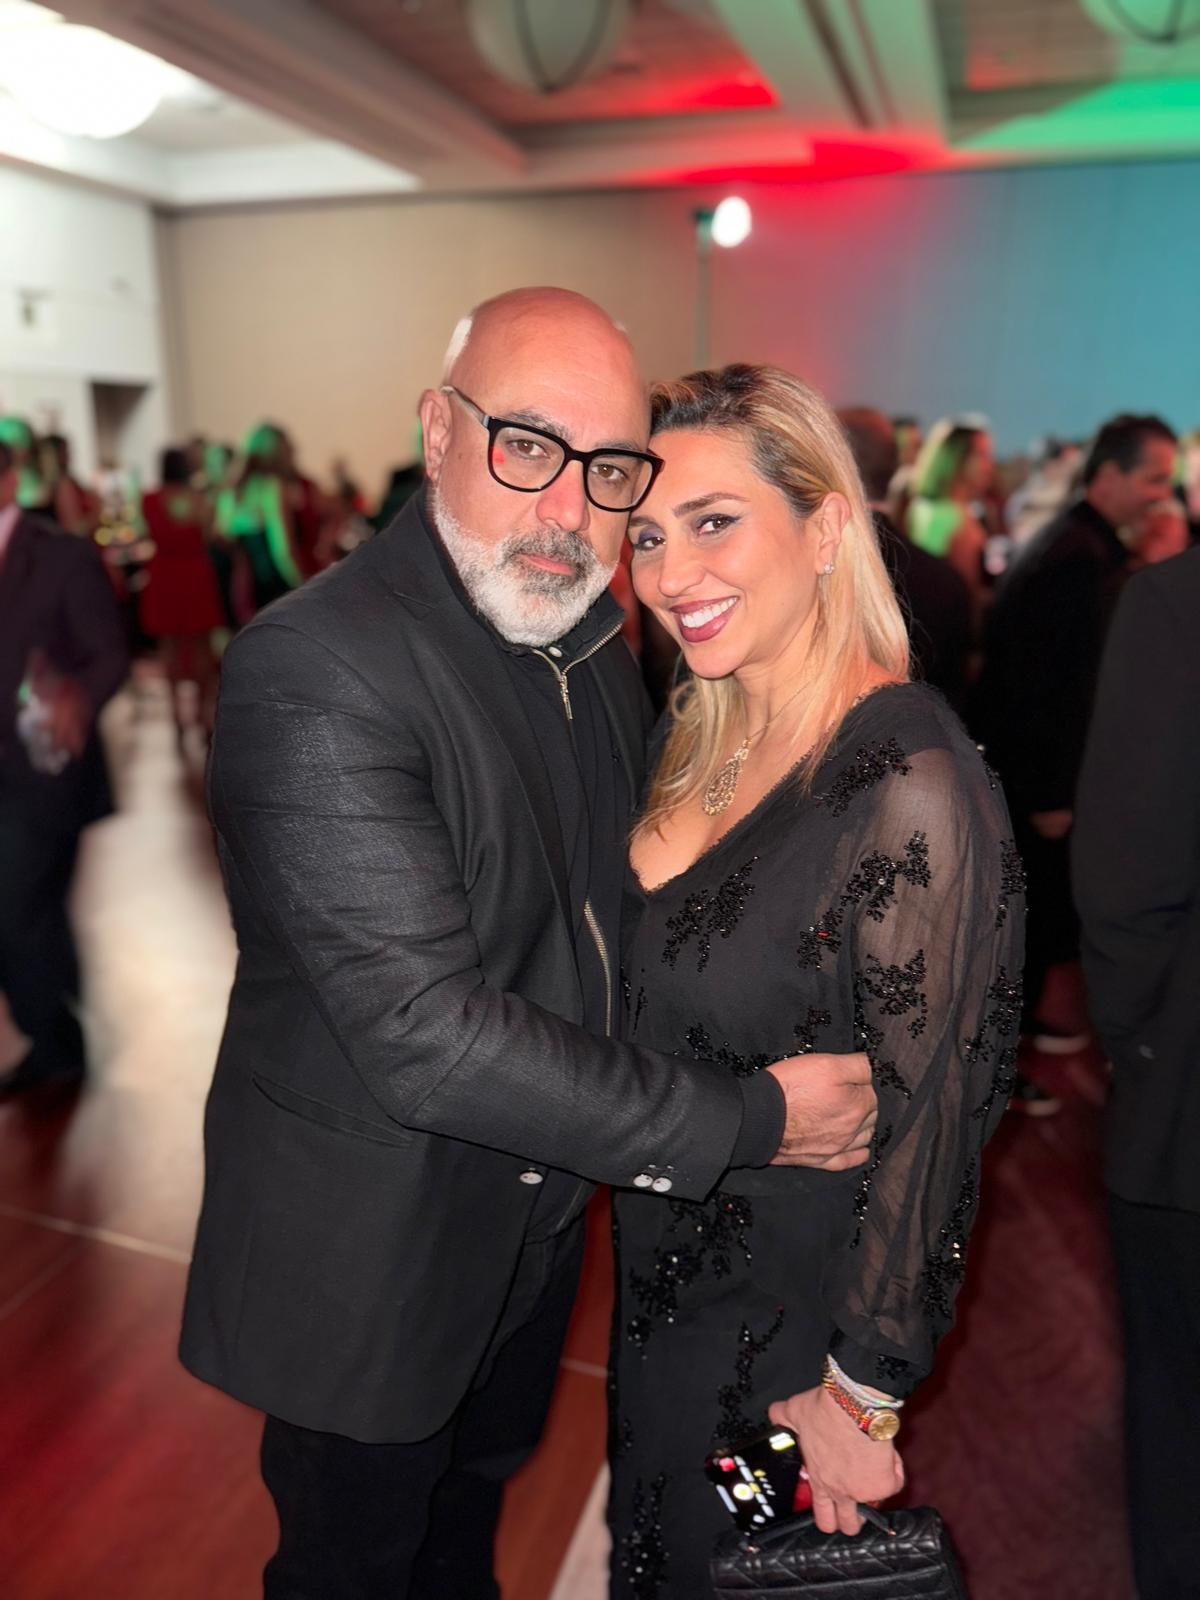
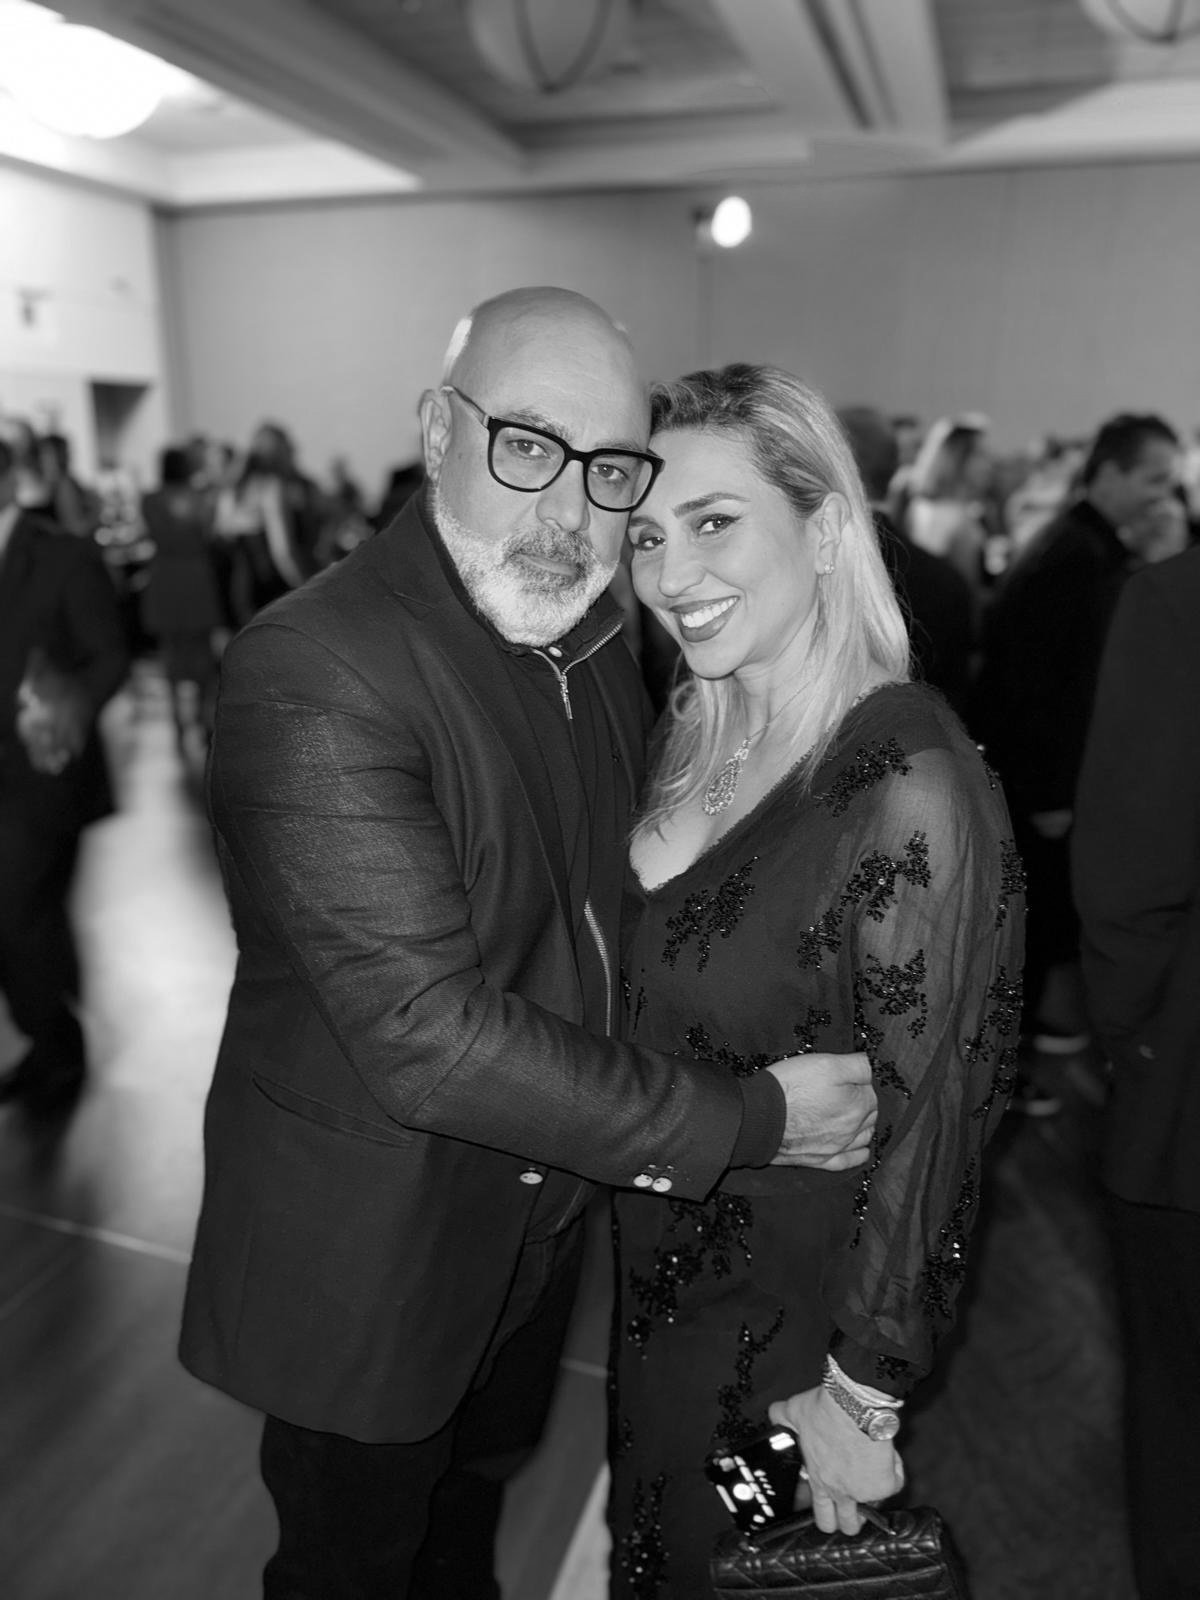
Add scroll-reveal animation, bolder hero, and hover polish; swap in correct hero photo
Per Parham's design direction (referencing emddigital.com.au for layout/
animation/creativity, prioritizing GEO/speed over heavy effects): adds a
lightweight IntersectionObserver-based Reveal component for scroll-triggered
fades (content stays in server-rendered HTML regardless — a <noscript> rule
forces full visibility if JS is unavailable), applies it across Home page
sections, strengthens hover micro-interactions on buttons/cards/links, and
pushes the hero headline bolder. Swaps in the correct high-res, direct-gaze
black-and-white glasses photo for the Home hero and About page (replacing
the wrong 3/4-profile shot), and fixes the photo/book-cover top-alignment
in the hero.

diff --git a/src/app/page.tsx b/src/app/page.tsx
@@ -6,6 +6,7 @@ import { authorBios, writingJourney } from "@/lib/data/author";
 import { books, getBookBySlug } from "@/lib/data/books";
 import { pressFeatures } from "@/lib/data/media";
 import BookCard from "@/components/BookCard";
+import Reveal from "@/components/Reveal";
 
 export const metadata: Metadata = {
   title: `${siteConfig.name} — ${siteConfig.tagline}`,
@@ -20,12 +21,12 @@ export default function HomePage() {
   return (
     <>
       {/* Hero — photo + featured book, side by side */}
-      <section className="bg-invert-bg text-invert-fg">
+      <section className="overflow-hidden bg-invert-bg text-invert-fg">
         <div className="mx-auto max-w-6xl px-4 py-16 sm:px-6 md:py-20">
           <p className="text-xs font-semibold uppercase tracking-[0.3em] text-invert-fg/50">
             {siteConfig.tagline}
           </p>
-          <h1 className="mt-4 font-display text-6xl font-black uppercase leading-[0.92] tracking-tighter sm:text-7xl lg:text-8xl">
+          <h1 className="mt-4 font-display text-7xl font-black uppercase leading-[0.88] tracking-tighter sm:text-8xl lg:text-9xl">
             Parham
             <br />
             Shariat
@@ -33,7 +34,7 @@ export default function HomePage() {
 
           <div className="mt-12 grid items-start justify-center gap-10 sm:grid-cols-[auto_auto] sm:justify-start">
             <Image
-              src="/images/parham-headshot-glasses-2.png"
+              src="/images/parham-headshot-glasses-bw.png"
               alt="Portrait of Parham Shariat"
               width={500}
               height={750}
@@ -46,7 +47,7 @@ export default function HomePage() {
                 alt={`Book cover for ${featuredBook.title}: ${featuredBook.subtitle}`}
                 width={featuredBook.coverImage.width}
                 height={featuredBook.coverImage.height}
-                className="h-[28rem] w-auto object-contain object-top shadow-2xl"
+                className="h-[28rem] w-auto object-contain object-top shadow-2xl transition-transform duration-500 ease-out hover:-translate-y-2"
               />
               <div className="text-center sm:text-left">
                 <p className="font-display text-xl font-black uppercase tracking-tight">
@@ -60,7 +61,7 @@ export default function HomePage() {
                 href={featuredBook.buyUrl}
                 target="_blank"
                 rel="noopener noreferrer"
-                className="bg-invert-fg px-7 py-3.5 text-sm font-bold uppercase tracking-wide text-invert-bg transition-opacity hover:opacity-85"
+                className="bg-invert-fg px-7 py-3.5 text-sm font-bold uppercase tracking-wide text-invert-bg transition-all duration-200 hover:-translate-y-0.5 hover:opacity-85 active:translate-y-0"
               >
                 Buy the Book
               </a>
@@ -70,7 +71,7 @@ export default function HomePage() {
       </section>
 
       {/* Why I Write */}
-      <section className="mx-auto max-w-3xl px-4 py-20 sm:px-6">
+      <Reveal className="mx-auto max-w-3xl px-4 py-20 sm:px-6" as="section">
         <h2 className="font-display text-3xl font-black uppercase tracking-tight sm:text-4xl">
           {writingJourney.heading}
         </h2>
@@ -82,7 +83,7 @@ export default function HomePage() {
             <div key={story.bookSlug}>
               <Link
                 href={`/books/${story.bookSlug}`}
-                className="text-xs font-semibold uppercase tracking-widest text-foreground/50 hover:text-foreground"
+                className="text-xs font-semibold uppercase tracking-widest text-foreground/50 transition-colors hover:text-foreground"
               >
                 On {story.bookTitle}
               </Link>
@@ -92,24 +93,28 @@ export default function HomePage() {
             </div>
           ))}
         </div>
-      </section>
+      </Reveal>
 
       {/* Other titles */}
       <section className="border-t border-border bg-muted">
         <div className="mx-auto max-w-6xl px-4 py-20 sm:px-6">
-          <h2 className="font-display text-2xl font-black uppercase tracking-tight sm:text-3xl">
-            Other Titles by Parham
-          </h2>
+          <Reveal>
+            <h2 className="font-display text-2xl font-black uppercase tracking-tight sm:text-3xl">
+              Other Titles by Parham
+            </h2>
+          </Reveal>
           <div className="mt-8 grid gap-6 sm:grid-cols-2 lg:grid-cols-4">
-            {otherBooks.map((book) => (
-              <BookCard key={book.slug} book={book} />
+            {otherBooks.map((book, index) => (
+              <Reveal key={book.slug} delay={index * 80}>
+                <BookCard book={book} />
+              </Reveal>
             ))}
           </div>
         </div>
       </section>
 
       {/* Speaking, podcasts, interviews */}
-      <section className="mx-auto max-w-3xl px-4 py-20 text-center sm:px-6">
+      <Reveal className="mx-auto max-w-3xl px-4 py-20 text-center sm:px-6" as="section">
         <h2 className="font-display text-2xl font-black uppercase tracking-tight sm:text-3xl">
           Speaking, Podcasts &amp; Interviews
         </h2>
@@ -119,11 +124,11 @@ export default function HomePage() {
         </p>
         <Link
           href="/speaking"
-          className="mt-7 inline-block bg-foreground px-7 py-3.5 text-sm font-bold uppercase tracking-wide text-background transition-opacity hover:opacity-85"
+          className="mt-7 inline-block bg-foreground px-7 py-3.5 text-sm font-bold uppercase tracking-wide text-background transition-all duration-200 hover:-translate-y-0.5 hover:opacity-85 active:translate-y-0"
         >
           Get in Touch
         </Link>
-      </section>
+      </Reveal>
 
       {/* As seen in */}
       <section className="border-y border-border bg-muted">
@@ -136,7 +141,7 @@ export default function HomePage() {
               <Link
                 key={feature.outlet}
                 href="/media"
-                className="font-display text-xl font-black uppercase tracking-tight text-foreground/60 transition-colors hover:text-foreground sm:text-2xl"
+                className="font-display text-xl font-black uppercase tracking-tight text-foreground/60 transition-all duration-200 hover:-translate-y-0.5 hover:text-foreground sm:text-2xl"
               >
                 {feature.outlet}
               </Link>
@@ -146,7 +151,7 @@ export default function HomePage() {
       </section>
 
       {/* Bio teaser */}
-      <section className="mx-auto max-w-3xl px-4 py-20 text-center sm:px-6">
+      <Reveal className="mx-auto max-w-3xl px-4 py-20 text-center sm:px-6" as="section">
         <h2 className="font-display text-3xl font-black uppercase tracking-tight sm:text-4xl">
           About Parham
         </h2>
@@ -155,11 +160,11 @@ export default function HomePage() {
         </p>
         <Link
           href="/about"
-          className="mt-7 inline-block border-b-2 border-foreground pb-1 text-sm font-bold uppercase tracking-wide hover:opacity-70"
+          className="mt-7 inline-block border-b-2 border-foreground pb-1 text-sm font-bold uppercase tracking-wide transition-opacity hover:opacity-70"
         >
           Read the Full Bio
         </Link>
-      </section>
+      </Reveal>
 
       {/* Newsletter */}
       <section className="bg-invert-bg text-invert-fg">
@@ -175,7 +180,7 @@ export default function HomePage() {
             href={siteConfig.social.substack}
             target="_blank"
             rel="noopener noreferrer"
-            className="mt-8 inline-block bg-invert-fg px-7 py-3.5 text-sm font-bold uppercase tracking-wide text-invert-bg transition-opacity hover:opacity-85"
+            className="mt-8 inline-block bg-invert-fg px-7 py-3.5 text-sm font-bold uppercase tracking-wide text-invert-bg transition-all duration-200 hover:-translate-y-0.5 hover:opacity-85 active:translate-y-0"
           >
             Subscribe on Substack
           </a>

diff --git a/src/components/Reveal.tsx b/src/components/Reveal.tsx
@@ -1,0 +1,62 @@
+"use client";
+
+import { useEffect, useRef, useState } from "react";
+
+type RevealProps = {
+  children: React.ReactNode;
+  className?: string;
+  /** Stagger the animation start, in milliseconds. */
+  delay?: number;
+  /** HTML element to render — defaults to "div", pass "section" to preserve semantics. */
+  as?: "div" | "section";
+};
+
+/**
+ * Fades/slides content in as it enters the viewport. Content is present in
+ * the server-rendered HTML regardless — this only affects the CSS opacity
+ * transform for JS-enabled visual browsers. A <noscript> rule in the root
+ * layout forces full visibility when JS is unavailable.
+ */
+export default function Reveal({
+  children,
+  className = "",
+  delay = 0,
+  as: Tag = "div",
+}: RevealProps) {
+  const ref = useRef<HTMLElement>(null);
+  const [visible, setVisible] = useState(false);
+
+  useEffect(() => {
+    const el = ref.current;
+    if (!el) return;
+
+    // No special-case for prefers-reduced-motion here: the global stylesheet
+    // collapses transition-duration to ~0 for those users, so the observer
+    // below still governs *when* content becomes visible, it just does so
+    // without an animated transition.
+    const observer = new IntersectionObserver(
+      ([entry]) => {
+        if (entry.isIntersecting) {
+          setVisible(true);
+          observer.disconnect();
+        }
+      },
+      { threshold: 0.15, rootMargin: "0px 0px -40px 0px" },
+    );
+    observer.observe(el);
+    return () => observer.disconnect();
+  }, []);
+
+  return (
+    <Tag
+      ref={ref as React.Ref<HTMLDivElement>}
+      data-reveal
+      style={{ transitionDelay: visible ? `${delay}ms` : "0ms" }}
+      className={`reveal-init transition-all duration-700 ease-out motion-reduce:transition-none ${
+        visible ? "opacity-100 translate-y-0" : "opacity-0 translate-y-6"
+      } ${className}`}
+    >
+      {children}
+    </Tag>
+  );
+}

diff --git a/src/components/BookCard.tsx b/src/components/BookCard.tsx
@@ -6,7 +6,7 @@ export default function BookCard({ book }: { book: Book }) {
   return (
     <Link
       href={`/books/${book.slug}`}
-      className="group flex flex-col overflow-hidden border border-border bg-background transition-colors hover:border-foreground"
+      className="group flex flex-col overflow-hidden border border-border bg-background transition-all duration-300 ease-out hover:-translate-y-1.5 hover:border-foreground hover:shadow-xl"
     >
       <div className="flex items-center justify-center bg-muted p-8">
         <Image

diff --git a/src/app/about/page.tsx b/src/app/about/page.tsx
@@ -25,7 +25,7 @@ export default function AboutPage() {
         <Breadcrumbs items={[{ name: "About", path: "/about" }]} variant="dark" />
         <div className="mx-auto grid max-w-6xl items-end gap-10 px-4 pb-14 pt-6 sm:px-6 md:grid-cols-[1fr_1.4fr]">
           <Image
-            src="/images/parham-headshot-glasses-2.png"
+            src="/images/parham-headshot-glasses-bw.png"
             alt="Portrait of Parham Shariat"
             width={500}
             height={750}

diff --git a/src/app/layout.tsx b/src/app/layout.tsx
@@ -54,6 +54,9 @@ export default function RootLayout({
       className={`${inter.variable} ${archivo.variable} h-full antialiased`}
     >
       <body className="flex min-h-full flex-col">
+        <noscript>
+          <style>{`[data-reveal] { opacity: 1 !important; transform: none !important; }`}</style>
+        </noscript>
         <JsonLd data={personSchema()} />
         <JsonLd data={organizationSchema()} />
         <SkipLink />
